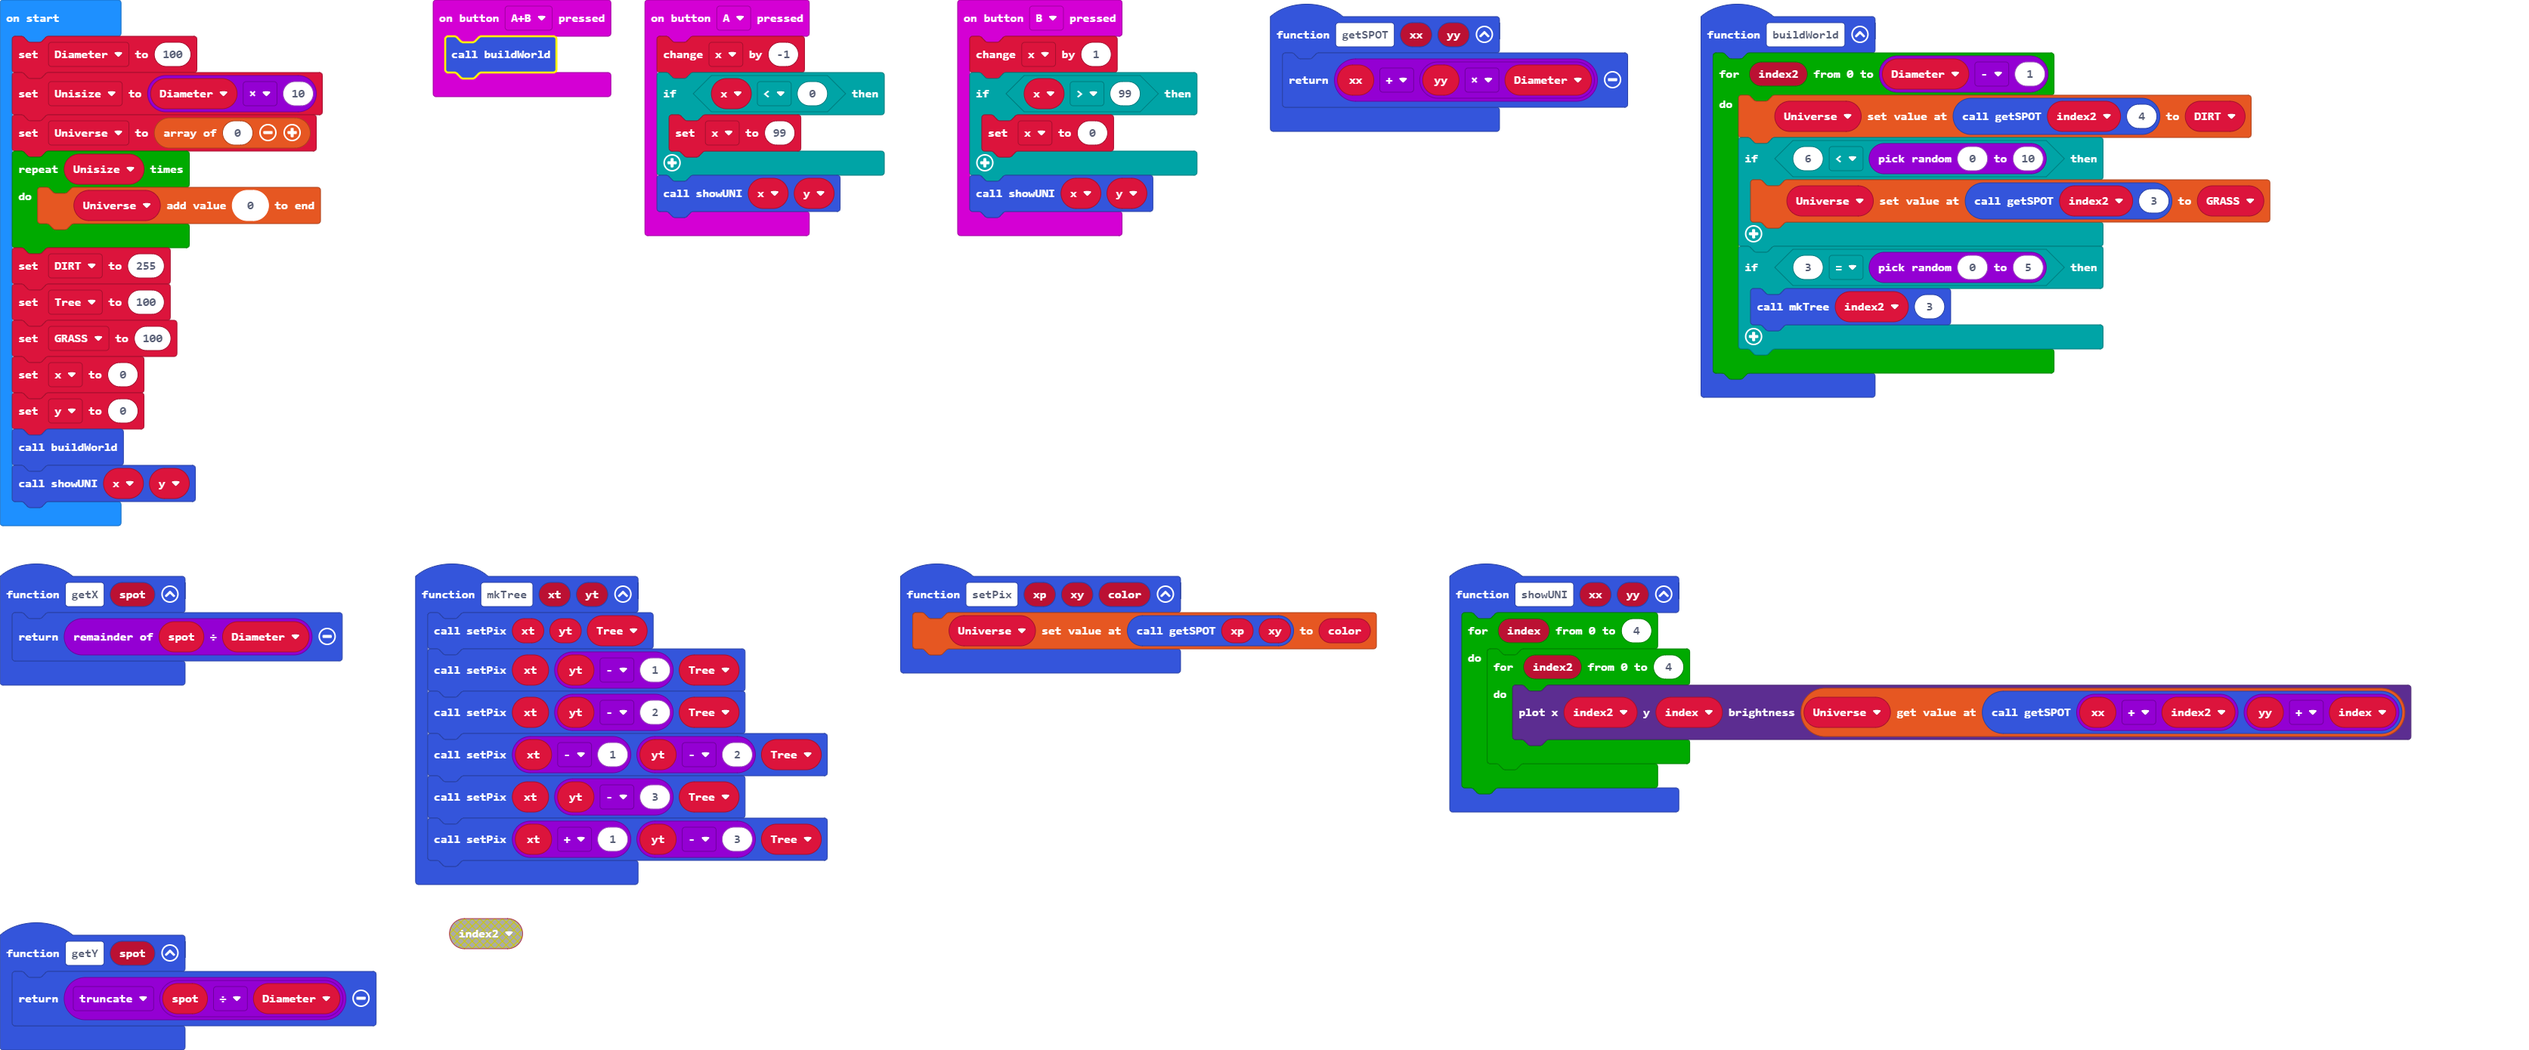
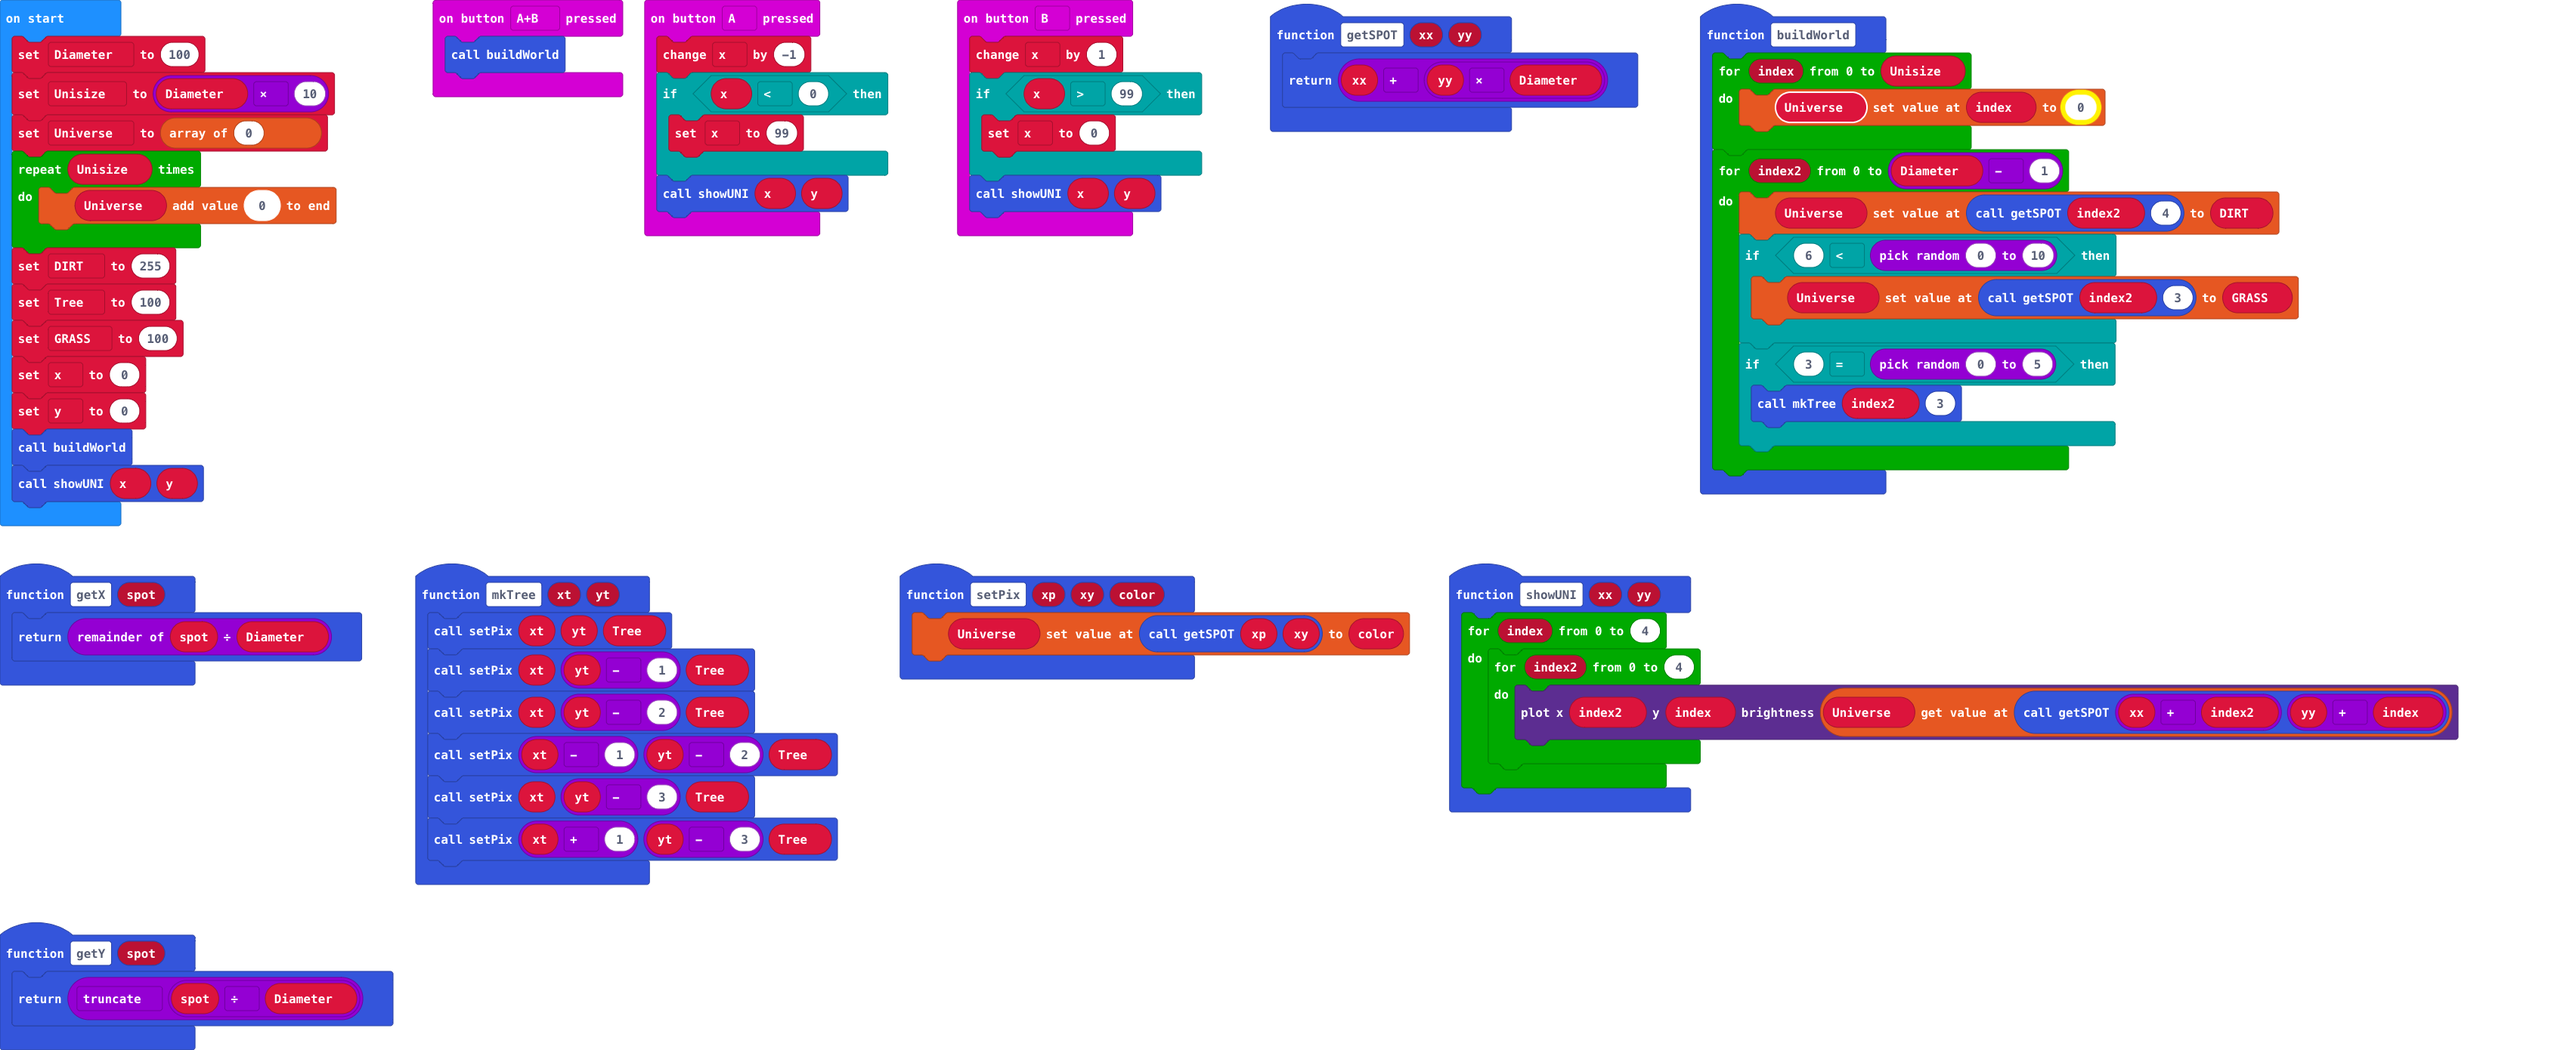
Update main.blocks, main.ts

diff --git a/main.ts b/main.ts
@@ -9,6 +9,9 @@ function showUNI (xx: number, yy: number) {
     }
 }
 function buildWorld () {
+    for (let index = 0; index <= Unisize; index++) {
+        Universe[index] = 0
+    }
     for (let index2 = 0; index2 <= Diameter - 1; index2++) {
         Universe[getSPOT(index2, 4)] = DIRT
         if (6 < randint(0, 10)) {
@@ -59,9 +62,10 @@ let GRASS = 0
 let Tree = 0
 let DIRT = 0
 let Universe: number[] = []
+let Unisize = 0
 let Diameter = 0
 Diameter = 100
-let Unisize = Diameter * 10
+Unisize = Diameter * 10
 Universe = [0]
 for (let index = 0; index < Unisize; index++) {
     Universe.push(0)
